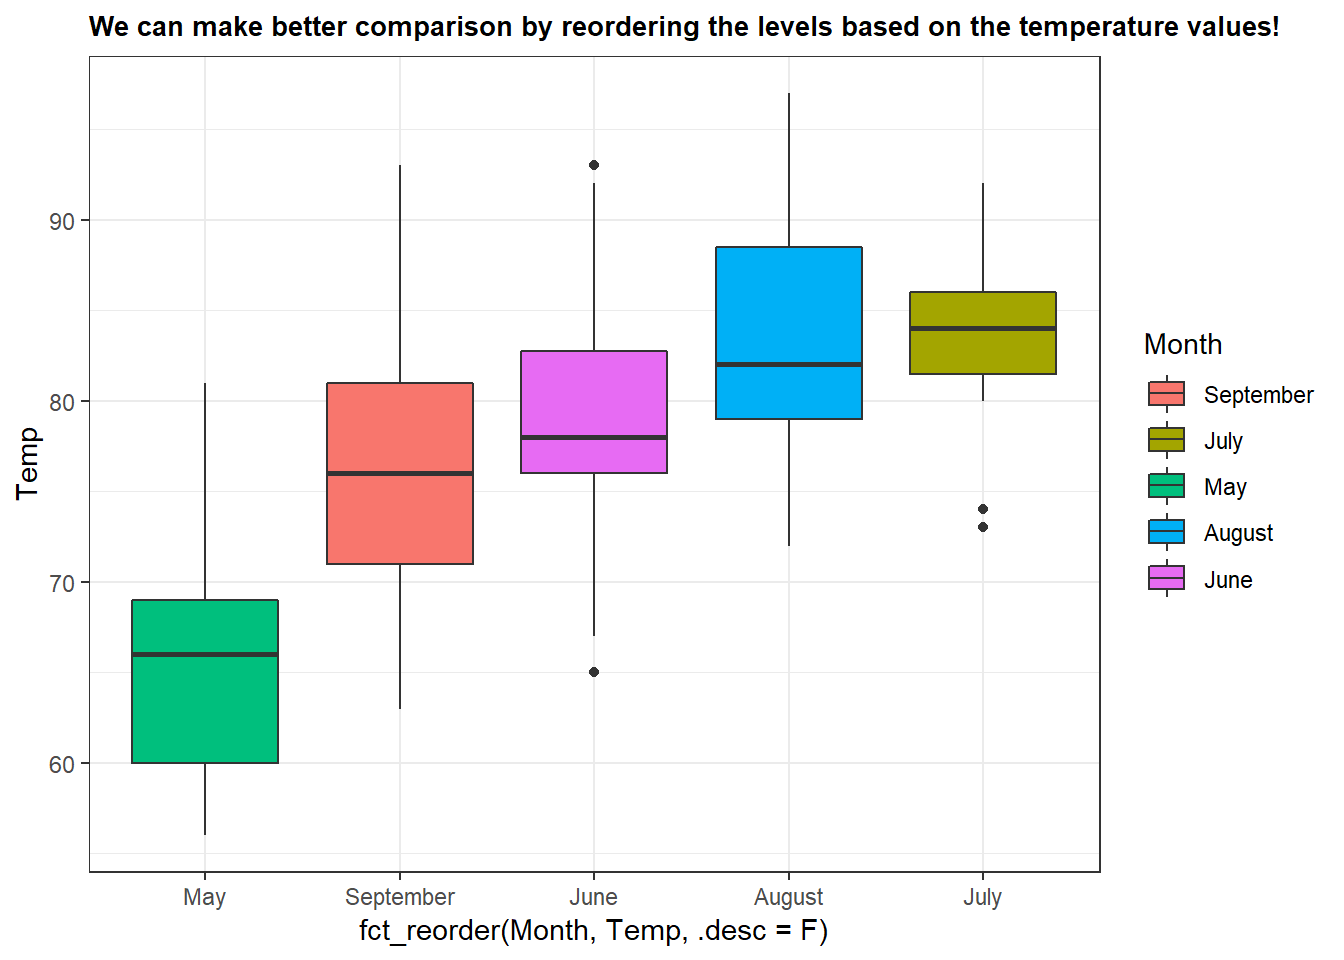
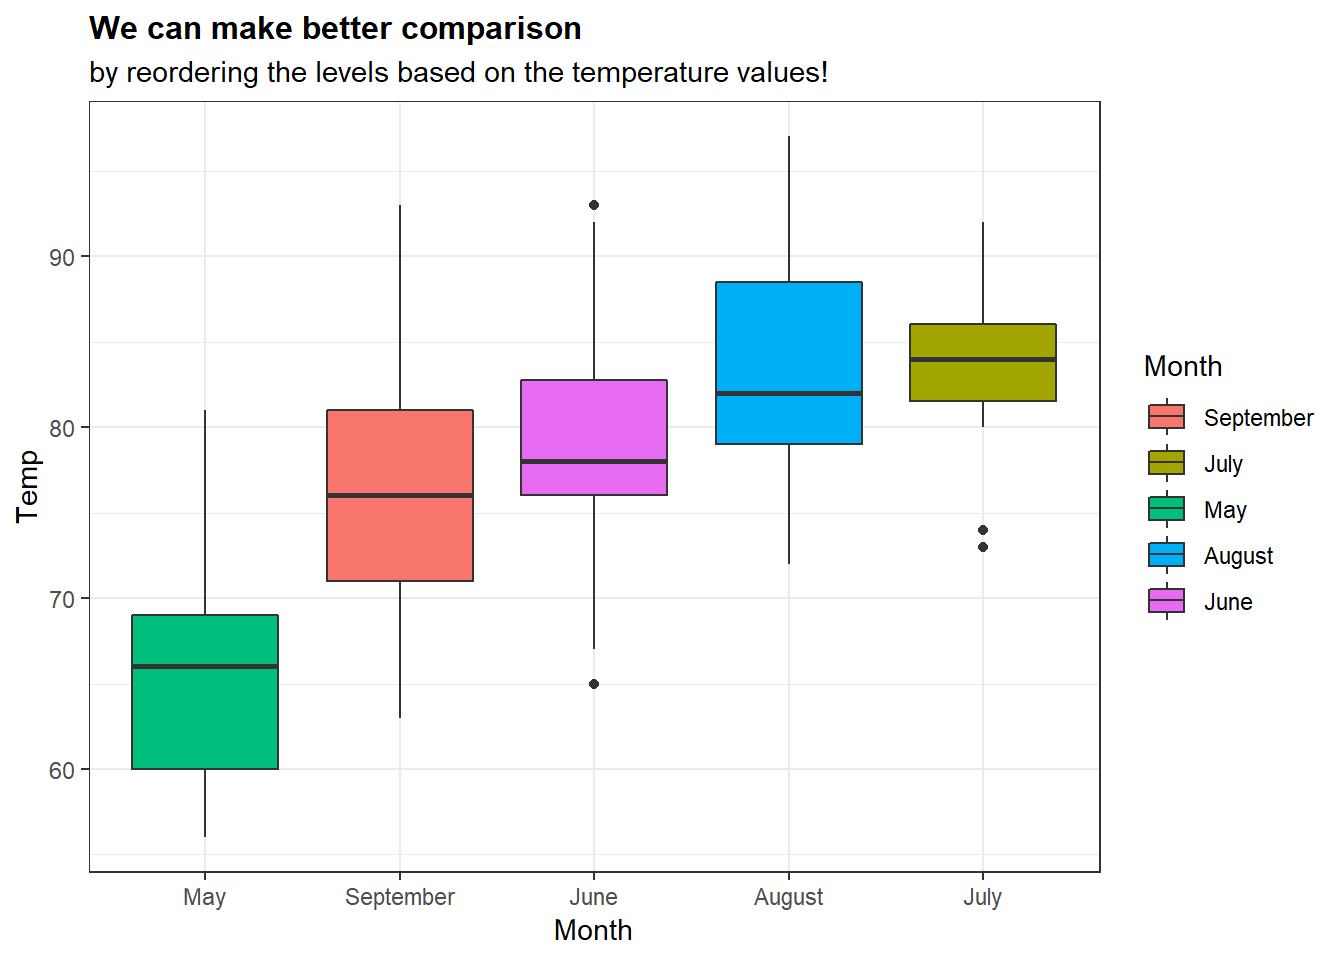
U
U

diff --git a/public/blog/2018/08/07/2018-08-07-xu-ly-factor-voi-forcats/index.html b/public/blog/2018/08/07/2018-08-07-xu-ly-factor-voi-forcats/index.html
@@ -264,16 +264,16 @@ airquality %&gt;% str</code></pre>
 ##  3rd Qu.:8.000   3rd Qu.:23.0  
 ##  Max.   :9.000   Max.   :31.0  
 ## </code></pre>
-<pre class="r"><code>#Biến month đang có định dạng là integer, chuyển thành định dạng factor
-airquality$Month &lt;- airquality$Month %&gt;% 
+<p>Trong tập dữ liệu trên, biến month đang có định dạng là integer, chuyển thành định dạng factor</p>
+<pre class="r"><code>airquality$Month &lt;- airquality$Month %&gt;% 
   as.factor
 
 airquality$Month %&gt;% class</code></pre>
 <pre><code>## [1] &quot;factor&quot;</code></pre>
 <pre class="r"><code>levels(airquality$Month)</code></pre>
 <pre><code>## [1] &quot;5&quot; &quot;6&quot; &quot;7&quot; &quot;8&quot; &quot;9&quot;</code></pre>
-<pre class="r"><code># Thay tên các tháng sử dụng hàm fct_recode
-airquality$Month &lt;- fct_recode(airquality$Month, 
+<p>Thay tên các tháng sử dụng hàm fct_recode</p>
+<pre class="r"><code>airquality$Month &lt;- fct_recode(airquality$Month, 
                                May = &#39;5&#39;, 
                                June = &#39;6&#39;, 
                                July = &#39;7&#39;, 
@@ -305,10 +305,9 @@ airquality %&gt;%
 </div>
 <div id="factor-relevel" class="section level1">
 <h1>Factor Relevel</h1>
-<p>Một hàm rất hữu dụng khác là <code>fct_relevel</code>. Hàm này giúp chúng ta thay đổi bất kỳ giá trị của 1 biến rời rạc ở bất cứ vị trí nào ta mong muốn.</p>
-<pre class="r"><code># Giả sử ta muốn vẽ biểu đồ nhiệt độ các tháng theo thứ tự: September, July, May, August, June
-airquality$Month &lt;- fct_relevel(airquality$Month, &#39;September&#39;, &#39;July&#39;, &#39;May&#39;, &#39;August&#39;, &#39;June&#39;)
-
+<p>Một hàm rất hữu dụng khác là <code>fct_relevel</code>. Hàm này giúp chúng ta thay đổi bất kỳ giá trị của 1 biến rời rạc ở bất cứ vị trí nào ta mong muốn. Giả sử ta muốn vẽ biểu đồ nhiệt độ các tháng theo thứ tự: <code>September, July, May, August, June</code></p>
+<pre class="r"><code>airquality$Month &lt;- fct_relevel(airquality$Month, &#39;September&#39;, &#39;July&#39;, &#39;May&#39;, &#39;August&#39;, &#39;June&#39;)
+#Kiểm tra lại thứ tự của factor
 levels(airquality$Month)</code></pre>
 <pre><code>## [1] &quot;September&quot; &quot;July&quot;      &quot;May&quot;       &quot;August&quot;    &quot;June&quot;</code></pre>
 <pre class="r"><code>airquality %&gt;% 
@@ -322,14 +321,16 @@ levels(airquality$Month)</code></pre>
 <div id="factor-reorder" class="section level1">
 <h1>Factor Reorder</h1>
 <p>Một hàm khác thường xuyên được sử dụng để sắp xếp theo thứ tự tăng/giảm dần của 1 biến rời rạc dựa vào giá trị của 1 biến số khác là <code>fct_reorder</code>.</p>
-<p>Giả sử, trong trường hợp này chúng ta muốn sắp xếp các tháng theo nhiệt độ tăng dần.</p>
-<pre class="r"><code># Ta có thể lựa chọn .desc=T (thứ tự giảm dần) hoặc .desc=F (tăng dần)
-airquality %&gt;% 
+<p>Giả sử, trong trường hợp này chúng ta muốn sắp xếp các tháng theo nhiệt độ tăng dần. Ta có thể lựa chọn <code>.desc=T</code> (thứ tự giảm dần) hoặc <code>.desc=F</code> (tăng dần)</p>
+<pre class="r"><code>airquality %&gt;% 
   ggplot(aes(x = fct_reorder(Month, Temp, .desc = F), y = Temp)) +
   geom_boxplot(aes(fill = Month)) +
-  ggtitle(label = &quot;We can make better comparison by reordering the levels based on the temperature values!&quot;) +
+  labs(title = &quot;We can make better comparison&quot;,
+       subtitle = &quot;by reordering the levels based on the temperature values!&quot;,
+       x = &quot;Month&quot;) +
   theme_bw() +
-  theme(plot.title = element_text(size = 10, face = &#39;bold&#39;))</code></pre>
+  theme(plot.title = element_text(size = 12, 
+                                  face = &#39;bold&#39;))</code></pre>
 <p><img src="../../../../../blog/2018-08-07-xu-ly-factor-voi-forcats_files/figure-html/unnamed-chunk-9-1.png" width="672" /></p>
 <hr />
 <p>Như vậy, chúng ta đã vừa được làm quen với một số hàm cơ bản trong package <code>forcats</code> như thay đổi và sắp xếp thứ tự các giá trị của 1 biến rời rạc. Chúc các bạn học tập và làm việc hiệu quả với <code>Ranalytics.vn</code>!</p>

diff --git a/content/blog/2018-08-07-xu-ly-factor-voi-forcats.html b/content/blog/2018-08-07-xu-ly-factor-voi-forcats.html
@@ -54,16 +54,16 @@ airquality %&gt;% str</code></pre>
 ##  3rd Qu.:8.000   3rd Qu.:23.0  
 ##  Max.   :9.000   Max.   :31.0  
 ## </code></pre>
-<pre class="r"><code>#Biến month đang có định dạng là integer, chuyển thành định dạng factor
-airquality$Month &lt;- airquality$Month %&gt;% 
+<p>Trong tập dữ liệu trên, biến month đang có định dạng là integer, chuyển thành định dạng factor</p>
+<pre class="r"><code>airquality$Month &lt;- airquality$Month %&gt;% 
   as.factor
 
 airquality$Month %&gt;% class</code></pre>
 <pre><code>## [1] &quot;factor&quot;</code></pre>
 <pre class="r"><code>levels(airquality$Month)</code></pre>
 <pre><code>## [1] &quot;5&quot; &quot;6&quot; &quot;7&quot; &quot;8&quot; &quot;9&quot;</code></pre>
-<pre class="r"><code># Thay tên các tháng sử dụng hàm fct_recode
-airquality$Month &lt;- fct_recode(airquality$Month, 
+<p>Thay tên các tháng sử dụng hàm fct_recode</p>
+<pre class="r"><code>airquality$Month &lt;- fct_recode(airquality$Month, 
                                May = &#39;5&#39;, 
                                June = &#39;6&#39;, 
                                July = &#39;7&#39;, 
@@ -95,10 +95,9 @@ airquality %&gt;%
 </div>
 <div id="factor-relevel" class="section level1">
 <h1>Factor Relevel</h1>
-<p>Một hàm rất hữu dụng khác là <code>fct_relevel</code>. Hàm này giúp chúng ta thay đổi bất kỳ giá trị của 1 biến rời rạc ở bất cứ vị trí nào ta mong muốn.</p>
-<pre class="r"><code># Giả sử ta muốn vẽ biểu đồ nhiệt độ các tháng theo thứ tự: September, July, May, August, June
-airquality$Month &lt;- fct_relevel(airquality$Month, &#39;September&#39;, &#39;July&#39;, &#39;May&#39;, &#39;August&#39;, &#39;June&#39;)
-
+<p>Một hàm rất hữu dụng khác là <code>fct_relevel</code>. Hàm này giúp chúng ta thay đổi bất kỳ giá trị của 1 biến rời rạc ở bất cứ vị trí nào ta mong muốn. Giả sử ta muốn vẽ biểu đồ nhiệt độ các tháng theo thứ tự: <code>September, July, May, August, June</code></p>
+<pre class="r"><code>airquality$Month &lt;- fct_relevel(airquality$Month, &#39;September&#39;, &#39;July&#39;, &#39;May&#39;, &#39;August&#39;, &#39;June&#39;)
+#Kiểm tra lại thứ tự của factor
 levels(airquality$Month)</code></pre>
 <pre><code>## [1] &quot;September&quot; &quot;July&quot;      &quot;May&quot;       &quot;August&quot;    &quot;June&quot;</code></pre>
 <pre class="r"><code>airquality %&gt;% 
@@ -112,14 +111,16 @@ levels(airquality$Month)</code></pre>
 <div id="factor-reorder" class="section level1">
 <h1>Factor Reorder</h1>
 <p>Một hàm khác thường xuyên được sử dụng để sắp xếp theo thứ tự tăng/giảm dần của 1 biến rời rạc dựa vào giá trị của 1 biến số khác là <code>fct_reorder</code>.</p>
-<p>Giả sử, trong trường hợp này chúng ta muốn sắp xếp các tháng theo nhiệt độ tăng dần.</p>
-<pre class="r"><code># Ta có thể lựa chọn .desc=T (thứ tự giảm dần) hoặc .desc=F (tăng dần)
-airquality %&gt;% 
+<p>Giả sử, trong trường hợp này chúng ta muốn sắp xếp các tháng theo nhiệt độ tăng dần. Ta có thể lựa chọn <code>.desc=T</code> (thứ tự giảm dần) hoặc <code>.desc=F</code> (tăng dần)</p>
+<pre class="r"><code>airquality %&gt;% 
   ggplot(aes(x = fct_reorder(Month, Temp, .desc = F), y = Temp)) +
   geom_boxplot(aes(fill = Month)) +
-  ggtitle(label = &quot;We can make better comparison by reordering the levels based on the temperature values!&quot;) +
+  labs(title = &quot;We can make better comparison&quot;,
+       subtitle = &quot;by reordering the levels based on the temperature values!&quot;,
+       x = &quot;Month&quot;) +
   theme_bw() +
-  theme(plot.title = element_text(size = 10, face = &#39;bold&#39;))</code></pre>
+  theme(plot.title = element_text(size = 12, 
+                                  face = &#39;bold&#39;))</code></pre>
 <p><img src="/blog/2018-08-07-xu-ly-factor-voi-forcats_files/figure-html/unnamed-chunk-9-1.png" width="672" /></p>
 <hr />
 <p>Như vậy, chúng ta đã vừa được làm quen với một số hàm cơ bản trong package <code>forcats</code> như thay đổi và sắp xếp thứ tự các giá trị của 1 biến rời rạc. Chúc các bạn học tập và làm việc hiệu quả với <code>Ranalytics.vn</code>!</p>

diff --git a/public/index.html b/public/index.html
@@ -619,11 +619,11 @@
 
         <div class="col-md-12">
             <div class="heading text-center">
-                <h2>Blog</h2>
+                <h2>Các bài viết gần đây</h2>
             </div>
 
             <p class="lead">
-              Các bài viết gần nhất
+              
             </p>
 
             

diff --git a/public/page/2/index.html b/public/page/2/index.html
@@ -619,11 +619,11 @@
 
         <div class="col-md-12">
             <div class="heading text-center">
-                <h2>Blog</h2>
+                <h2>Các bài viết gần đây</h2>
             </div>
 
             <p class="lead">
-              Các bài viết gần nhất
+              
             </p>
 
             
